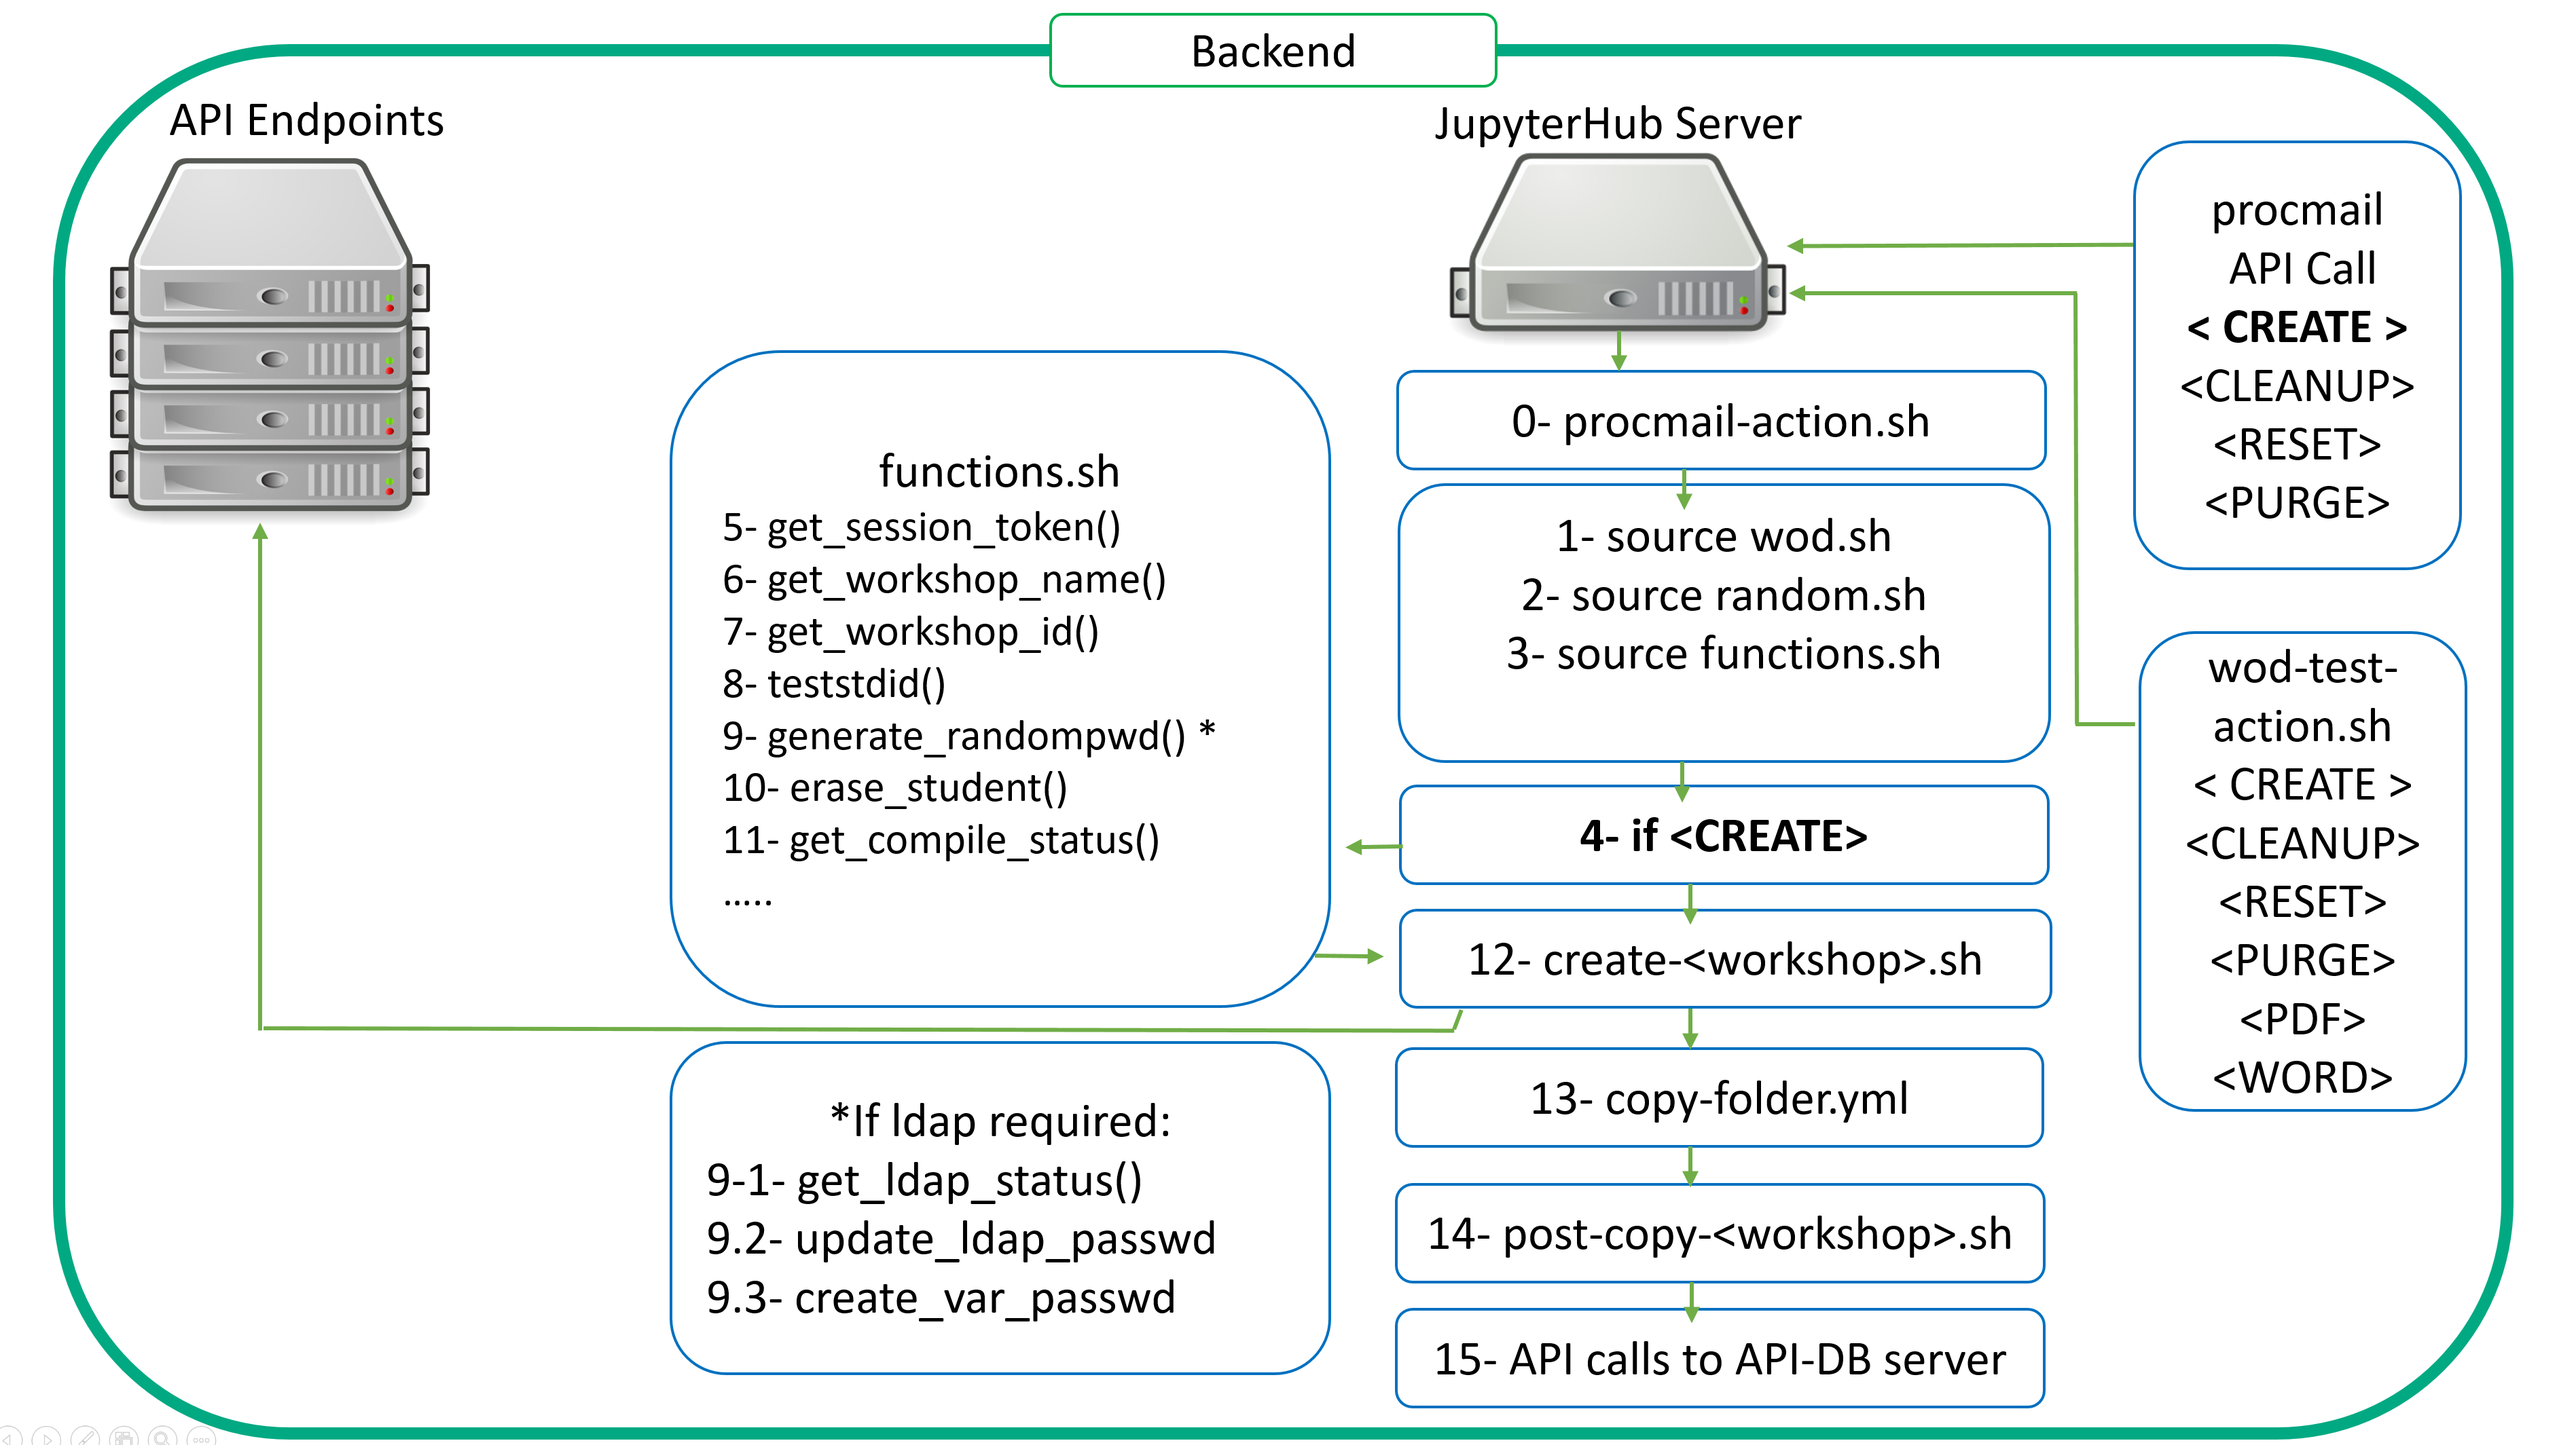
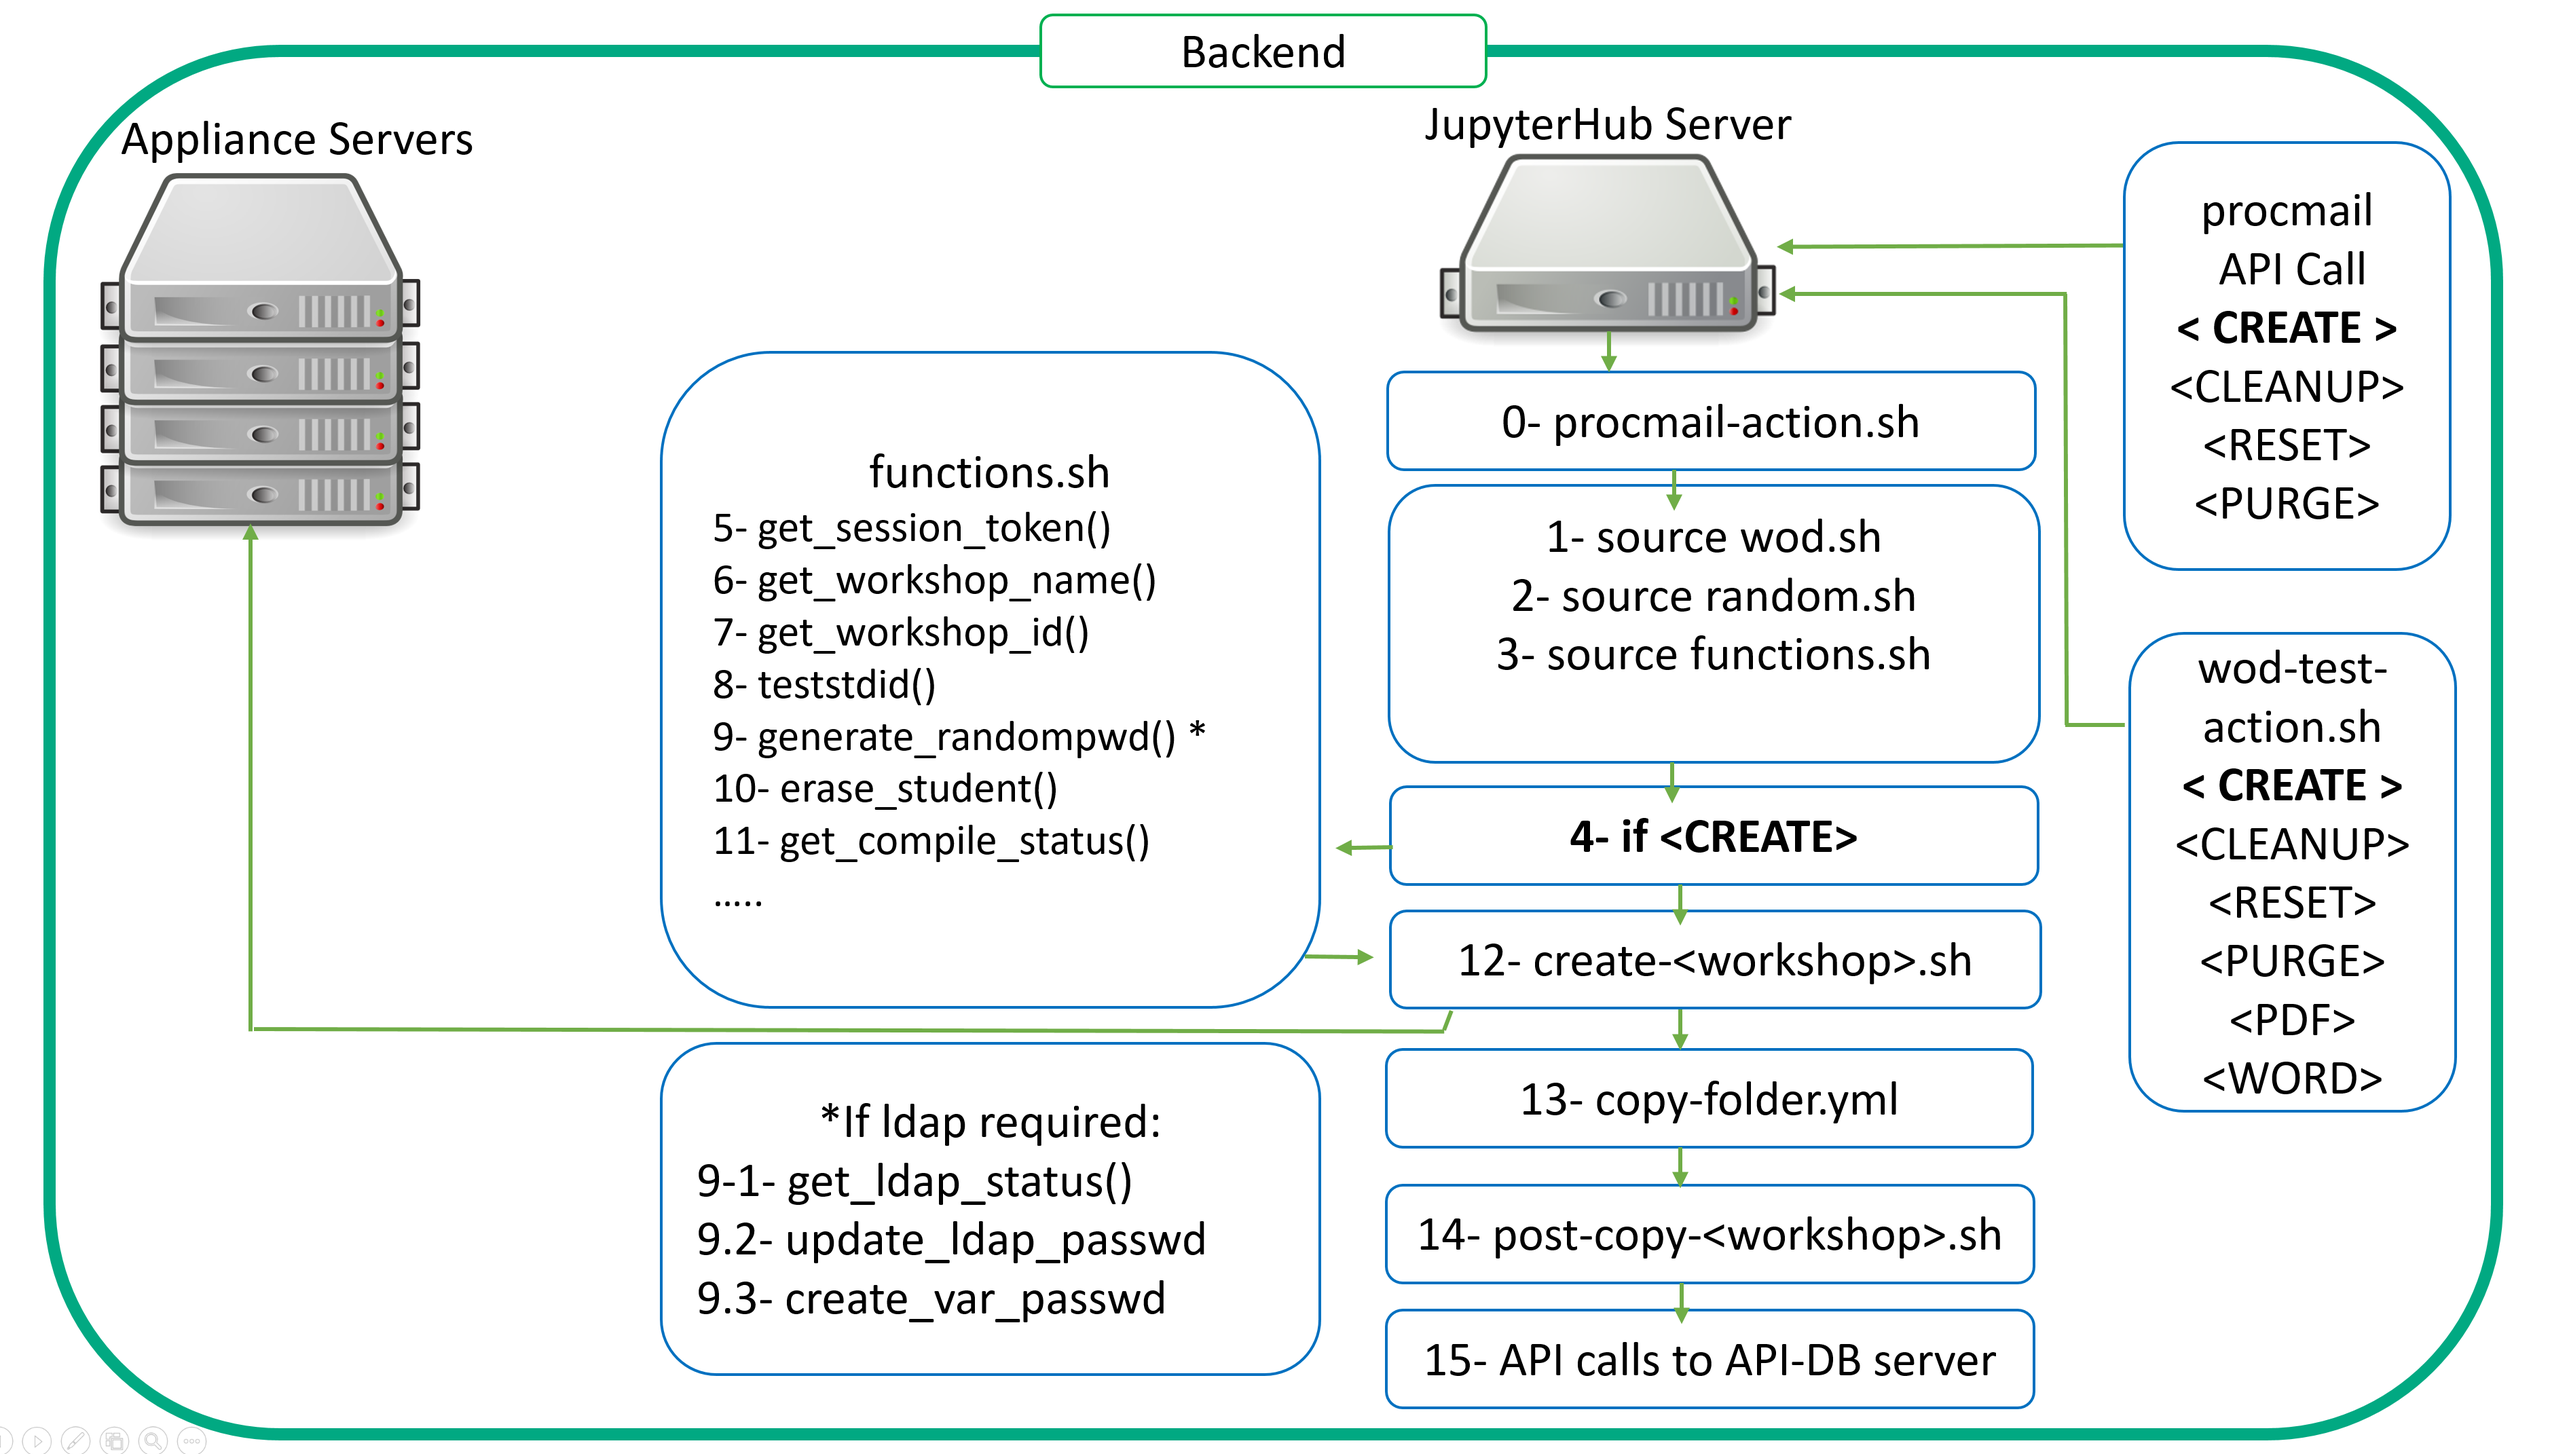
Update Blog “open-sourcing-workshops-on-demand-part3-understanding-the-backend”

diff --git a/content/blog/open-sourcing-workshops-on-demand-part3-understanding-the-backend.md b/content/blog/open-sourcing-workshops-on-demand-part3-understanding-the-backend.md
@@ -14,7 +14,7 @@ I will take time today to dig into the details of this server. I will cover t
 
 As a reminder, here is a diagram showing the different parts of the Workshops-on-Demand infrastructure. I will focus today again on the backend server side and more precisely on the Jupyterhub server where all the automation takes place.
 
-![](/img/wod-blogserie3-archi-2.png "Workshops-on-Demand Architecture")
+![](/img/wod-blogserie3-archi3.png "Workshops-on-Demand Architecture")
 
 #### Backend server  / workshops deployment liefecycle
 
@@ -68,8 +68,8 @@ Let's start with a **CREATE** scenario looking at the very first lines of the
 
 ```
 From xyz@hpe.com  Wed Mar  1 15:10:41 2023
- Subject: CREATE 401 825 frederic.passeron@hpe.com
-  Folder: /home/wodadmin/wod-backend/scripts/procmail-action.sh CREATE       14
+Subject: CREATE 401 825 frederic.passeron@hpe.com
+Folder: /home/wodadmin/wod-backend/scripts/procmail-action.sh CREATE       14
 ```
 
 In `Subject:`, we look for the API verb **CREATE** followed by **student id,** **participant id** and finally the registered **participant email.** 
